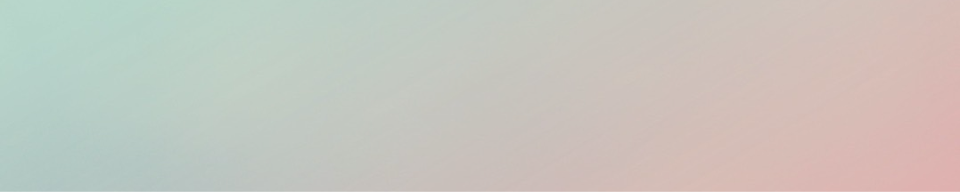
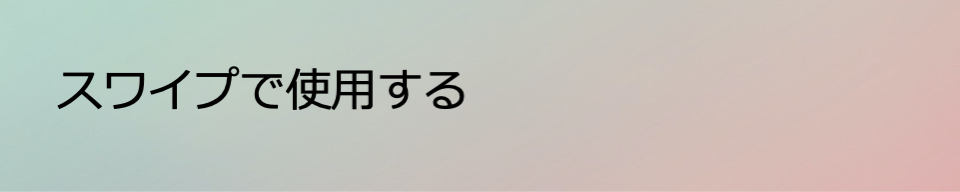
チケットのUI更新

Changed region(s): [[0.0625, 0.3438, 0.5, 0.5938]]

diff --git a/public/js/app.js b/public/js/app.js
@@ -22617,6 +22617,7 @@ __webpack_require__.r(__webpack_exports__);
     var _this = this;
 
     this.slider = new keen_slider__WEBPACK_IMPORTED_MODULE_1__["default"](this.$refs.slider, {
+      loop: true,
       created: function created(s) {},
       slideChanged: function slideChanged(s) {
         _this.index = s.track.details.rel;
@@ -22978,7 +22979,7 @@ var _hoisted_1 = {
   "class": "col-sm-6"
 };
 var _hoisted_2 = {
-  "class": "card rounded-3 p-0"
+  "class": "card rounded-3 p-0 border-0"
 };
 
 var _hoisted_3 = /*#__PURE__*/(0,vue__WEBPACK_IMPORTED_MODULE_0__.createElementVNode)("div", {
@@ -22990,6 +22991,8 @@ var _hoisted_3 = /*#__PURE__*/(0,vue__WEBPACK_IMPORTED_MODULE_0__.createElementV
     "border-radius": "0.3rem 0.3rem 0px 0px"
   },
   alt: "チケットの画像"
+}), /*#__PURE__*/(0,vue__WEBPACK_IMPORTED_MODULE_0__.createElementVNode)("div", {
+  "class": "ticket"
 })], -1
 /* HOISTED */
 );
@@ -23002,27 +23005,11 @@ var _hoisted_5 = {
   "class": "keen-slider"
 };
 
-var _hoisted_6 = /*#__PURE__*/(0,vue__WEBPACK_IMPORTED_MODULE_0__.createElementVNode)("img", {
-  "class": "position-absolute w-100 ticket-footer",
-  src: "images/ticket-image-footer.png",
-  alt: "チケットの画像"
-}, null, -1
-/* HOISTED */
-);
+var _hoisted_6 = /*#__PURE__*/(0,vue__WEBPACK_IMPORTED_MODULE_0__.createStaticVNode)("<div class=\"keen-slider__slide position-relative\" style=\"padding-top:20%;\"><img class=\"position-absolute w-100 ticket-footer\" src=\"images/ticket-image-footer.png\" alt=\"チケットの画像\"><div class=\"position-absolute w-100 ticket-footer h-100\"><div class=\"p-3 h-100 align-middle d-flex align-items-center fs-5\"><i class=\"fas fa-angle-double-right ms-auto\"></i></div></div></div><div class=\"keen-slider__slide position-relative\" style=\"padding-top:20%;\"><div class=\"position-absolute w-100 ticket-footer\"><img class=\"position-absolute w-100 ticket-footer\" src=\"images/ticket-image-footer-used.png\" alt=\"チケットの画像\"></div></div>", 2);
 
-var _hoisted_7 = [_hoisted_6];
+var _hoisted_8 = [_hoisted_6];
 function render(_ctx, _cache, $props, $setup, $data, $options) {
-  return (0,vue__WEBPACK_IMPORTED_MODULE_0__.openBlock)(), (0,vue__WEBPACK_IMPORTED_MODULE_0__.createElementBlock)("div", _hoisted_1, [(0,vue__WEBPACK_IMPORTED_MODULE_0__.createElementVNode)("div", _hoisted_2, [_hoisted_3, (0,vue__WEBPACK_IMPORTED_MODULE_0__.createElementVNode)("div", _hoisted_4, [(0,vue__WEBPACK_IMPORTED_MODULE_0__.createElementVNode)("div", _hoisted_5, [((0,vue__WEBPACK_IMPORTED_MODULE_0__.openBlock)(true), (0,vue__WEBPACK_IMPORTED_MODULE_0__.createElementBlock)(vue__WEBPACK_IMPORTED_MODULE_0__.Fragment, null, (0,vue__WEBPACK_IMPORTED_MODULE_0__.renderList)($data.slides, function (slide) {
-    return (0,vue__WEBPACK_IMPORTED_MODULE_0__.openBlock)(), (0,vue__WEBPACK_IMPORTED_MODULE_0__.createElementBlock)("div", {
-      "class": "keen-slider__slide position-relative",
-      style: {
-        "padding-top": "20%"
-      },
-      key: slide.name
-    }, _hoisted_7);
-  }), 128
-  /* KEYED_FRAGMENT */
-  ))], 512
+  return (0,vue__WEBPACK_IMPORTED_MODULE_0__.openBlock)(), (0,vue__WEBPACK_IMPORTED_MODULE_0__.createElementBlock)("div", _hoisted_1, [(0,vue__WEBPACK_IMPORTED_MODULE_0__.createElementVNode)("div", _hoisted_2, [_hoisted_3, (0,vue__WEBPACK_IMPORTED_MODULE_0__.createElementVNode)("div", _hoisted_4, [(0,vue__WEBPACK_IMPORTED_MODULE_0__.createElementVNode)("div", _hoisted_5, _hoisted_8, 512
   /* NEED_PATCH */
   )])])]);
 }
@@ -28180,7 +28167,7 @@ __webpack_require__.r(__webpack_exports__);
 
 var ___CSS_LOADER_EXPORT___ = _node_modules_laravel_mix_node_modules_css_loader_dist_runtime_api_js__WEBPACK_IMPORTED_MODULE_0___default()(function(i){return i[1]});
 // Module
-___CSS_LOADER_EXPORT___.push([module.id, "\n.ticket-footer {\n  border-style: dashed;\n  border-width: 0.1rem 0 0 0;\n  top: 0;\n  border-radius: 0px 0px 0.3rem 0.3rem;\n}\n", ""]);
+___CSS_LOADER_EXPORT___.push([module.id, "\n.ticket {\n  background-image: linear-gradient(\n    to right,\n    #808080,\n    #808080 1rem,\n    transparent 0.3rem,\n    transparent 10px\n  ); /* 幅2の線を作る */\n  background-size: 1.5rem 0.2rem; /* グラデーションの幅・高さを指定 */\n  background-position: left bottom; /* 背景の開始位置を指定 */\n  background-repeat: repeat-x; /* 横向きにのみ繰り返す */\n}\n.ticket-footer {\n  top: 0;\n  border-radius: 0px 0px 0.3rem 0.3rem;\n}\n", ""]);
 // Exports
 /* harmony default export */ const __WEBPACK_DEFAULT_EXPORT__ = (___CSS_LOADER_EXPORT___);
 

diff --git a/resources/js/components/TicketComponent.vue b/resources/js/components/TicketComponent.vue
@@ -1,26 +1,44 @@
 <template>
   <div class="col-sm-6">
-    <div class="card rounded-3 p-0">
+    <div class="card rounded-3 p-0 border-0">
       <div class="ratio ratio-16x9">
         <img
           src="images/ticket-image.png"
           style="object-fit: cover; border-radius: 0.3rem 0.3rem 0px 0px"
           alt="チケットの画像"
         />
+        <div class="ticket"></div>
       </div>
       <div class="card-body p-0">
         <div ref="slider" class="keen-slider">
           <div
             class="keen-slider__slide position-relative"
             style="padding-top: 20%"
-            v-for="slide in slides"
-            :key="slide.name"
           >
             <img
               class="position-absolute w-100 ticket-footer"
               src="images/ticket-image-footer.png"
               alt="チケットの画像"
             />
+            <div class="position-absolute w-100 ticket-footer h-100">
+              <div
+                class="p-3 h-100 align-middle d-flex align-items-center fs-5"
+              >
+                <i class="fas fa-angle-double-right ms-auto"></i>
+              </div>
+            </div>
+          </div>
+          <div
+            class="keen-slider__slide position-relative"
+            style="padding-top: 20%"
+          >
+            <div class="position-absolute w-100 ticket-footer">
+              <img
+                class="position-absolute w-100 ticket-footer"
+                src="images/ticket-image-footer-used.png"
+                alt="チケットの画像"
+              />
+            </div>
           </div>
         </div>
       </div>
@@ -49,6 +67,7 @@ export default {
   },
   mounted() {
     this.slider = new KeenSlider(this.$refs.slider, {
+      loop: true,
       created: (s) => {},
       slideChanged: (s) => {
         this.index = s.track.details.rel;
@@ -63,9 +82,19 @@ export default {
 </script>
 
 <style>
+.ticket {
+  background-image: linear-gradient(
+    to right,
+    #808080,
+    #808080 1rem,
+    transparent 0.3rem,
+    transparent 10px
+  ); /* 幅2の線を作る */
+  background-size: 1.5rem 0.2rem; /* グラデーションの幅・高さを指定 */
+  background-position: left bottom; /* 背景の開始位置を指定 */
+  background-repeat: repeat-x; /* 横向きにのみ繰り返す */
+}
 .ticket-footer {
-  border-style: dashed;
-  border-width: 0.1rem 0 0 0;
   top: 0;
   border-radius: 0px 0px 0.3rem 0.3rem;
 }
